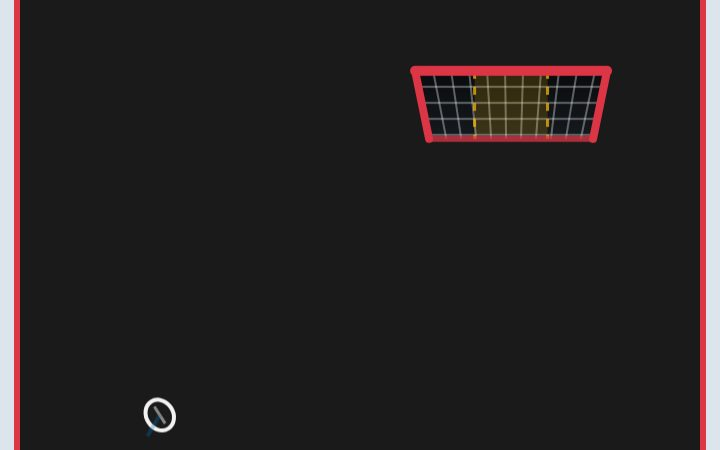
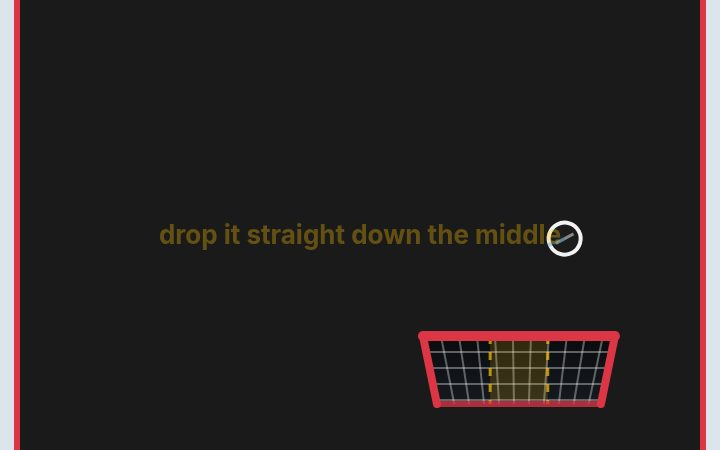
Bar Down: feel pass, solid net body, round puck, multiplier scoring
Tuning: quicker across the ice (122 base, 196 cap), more lift per tap
(-336), a narrower bar-down band (0.15), and half the starting clock
(18s), so a run has to be earned early rather than coasted.

The rebound out of the net now fires toward wherever the net is heading
next, so scoring sends you at your next chance instead of away from it.

The net is solid on its sides and back, not just its mouth: the puck can
no longer pass through the body, and only a clean drop inside the posts
counts. The puck was drawn as a rotating squashed ellipse, which read as
a spinning football; from directly above a puck is a circle, so it is
one now.

Scoring is rebuilt: a goal is one point, multiplied by a multiplier that
climbs by one per goal up to 50x. A bar down advances it by two. Decking
the puck still wipes it.

Claude-Session: https://claude.ai/code/session_0131pdkGBwKXA4s6o4j9DdbZ

diff --git a/scripts/games/bar-down.js b/scripts/games/bar-down.js
@@ -32,18 +32,18 @@
 
   /* ---- tuning ---- */
   var GRAV = 620;                   // px/s^2
-  var TAP_VY = -300;                // a tap sets rise, it does not stack
-  var VX_BASE = 104;                // horizontal speed, never decays
+  var TAP_VY = -336;                // a tap sets rise, it does not stack
+  var VX_BASE = 122;                // horizontal speed, never decays
   var VX_STEP = 4;                  // +per goal, so it tightens as you go
-  var VX_MAX = 178;
+  var VX_MAX = 196;
   var ICE_BOUNCE = 0.5;
-  var START_TIME = 35;
+  var START_TIME = 18;
   var GOAL_TIME = 4;
   var BAR_TIME = 5;
-  var GOAL_PTS = 100;
-  var BAR_PTS = 250;
-  var MULT_CAP = 8;
-  var CENTRE_FRAC = 0.19;           // this share either side of centre = bar down
+  var GOAL_PTS = 1;                 // a goal is worth one, the multiplier does the rest
+  var MULT_CAP = 50;
+  var BAR_BUMP = 2;                 // a bar down advances the multiplier faster
+  var CENTRE_FRAC = 0.15;           // this share either side of centre = bar down
   var NET_SLIDE = 300;              // px/s the net travels to its next spot
   var POP_VY = -292;                // how hard the mesh spits the puck back out
 
@@ -135,10 +135,10 @@
   function scoreGoal(net, barDown) {
     goals++;
     if (barDown) bars++;
-    var pts = (barDown ? BAR_PTS : GOAL_PTS) * multiplier;
+    // the goal is worth one; the multiplier you have built is what pays
+    var pts = GOAL_PTS * multiplier;
     score += pts;
-    // only a clean one down the middle builds the multiplier
-    if (barDown) multiplier = Math.min(multiplier + 1, MULT_CAP);
+    multiplier = Math.min(multiplier + (barDown ? BAR_BUMP : 1), MULT_CAP);
     timeLeft += barDown ? BAR_TIME : GOAL_TIME;
     vxMag = Math.min(vxMag + VX_STEP, VX_MAX);
 
@@ -149,8 +149,8 @@
       color: barDown ? C.warning : C.success,
       size: barDown ? 25 : 18
     });
-    if (barDown && multiplier > 1) {
-      floaters.push({ x: W / 2, y: 232, text: 'multiplier x' + multiplier, t: 0, life: 0.9, color: C.accentHover, size: 15 });
+    if (multiplier > 1) {
+      floaters.push({ x: W / 2, y: 232, text: 'now x' + multiplier, t: 0, life: 0.9, color: C.accentHover, size: 15 });
     }
     rings.push({ x: net.x, y: net.y, t: 0, dur: 0.6, r0: 10, r1: 64, color: barDown ? C.warning : C.success });
     flash = { t: 0, dur: 0.22, color: barDown ? C.warning : C.success };
@@ -160,11 +160,13 @@
     // the mesh spits it back out, which is what a real puck does, so the same
     // puck stays in play and there is nothing to reset
     puck.x = net.x;
-    puck.y = net.y + NET_D * 0.5;
+    puck.y = net.y - PUCK_R - 2;
     puck.vy = POP_VY;
-    puck.vx = (puck.vx >= 0 ? 1 : -1) * Math.max(Math.abs(puck.vx) * 0.85, 55);
     puck.onIce = false;
+    // pick where the net is headed first, then kick the puck that way, so the
+    // rebound sends you toward the next chance instead of away from it
     moveNet();
+    puck.vx = (net.targetX >= puck.x ? 1 : -1) * Math.max(Math.abs(puck.vx), 74);
     syncHud();
   }
 
@@ -250,6 +252,24 @@
       if (a <= half + PUCK_R) {
         offThePost(off);
       }
+    }
+
+    /* Everything but the mouth is solid, so the puck cannot pass through the
+       net. A clean drop scores above and never reaches this. */
+    var nLeft = net.x - NET_W / 2, nRight = net.x + NET_W / 2;
+    var nTop = net.y, nBot = net.y + NET_D;
+    if (puck.x + PUCK_R > nLeft && puck.x - PUCK_R < nRight &&
+        puck.y + PUCK_R > nTop && puck.y - PUCK_R < nBot) {
+      var pL = (puck.x + PUCK_R) - nLeft;
+      var pR = nRight - (puck.x - PUCK_R);
+      var pT = (puck.y + PUCK_R) - nTop;
+      var pB = nBot - (puck.y - PUCK_R);
+      var least = Math.min(pL, pR, pT, pB);
+      if (least === pL) { puck.x = nLeft - PUCK_R; puck.vx = -Math.abs(puck.vx); }
+      else if (least === pR) { puck.x = nRight + PUCK_R; puck.vx = Math.abs(puck.vx); }
+      else if (least === pT) { puck.y = nTop - PUCK_R; puck.vy = -Math.abs(puck.vy) * 0.6 - 20; }
+      else { puck.y = nBot + PUCK_R; puck.vy = Math.abs(puck.vy) * 0.6 + 20; }
+      rings.push({ x: puck.x, y: puck.y, t: 0, dur: 0.22, r0: 5, r1: 16, color: C.danger });
     }
 
     // ice
@@ -405,7 +425,7 @@
     ctx.rotate(puck.spin);
     ctx.fillStyle = '#1b1b1b';
     ctx.beginPath();
-    ctx.ellipse(0, 0, PUCK_R, PUCK_R * 0.84, 0, 0, Math.PI * 2);
+    ctx.arc(0, 0, PUCK_R, 0, Math.PI * 2);
     ctx.fill();
     ctx.strokeStyle = '#f2f2f2';
     ctx.lineWidth = 2;

diff --git a/_pages/arcade/bar-down.html b/_pages/arcade/bar-down.html
@@ -12,7 +12,7 @@ arcade: true
   <a class="arcade-back" href="/arcade/">&larr; Arcade</a>
   <h1 class="arcade-title">Bar Down <span class="arcade-card__chip">Prototype</span></h1>
   <p class="proto-notice"><strong>This one is a prototype.</strong> Rough edges, missing polish, and half-formed ideas are all expected. If you play it, tell us what worked and what did not: <a href="https://scout-elite.supahub.com/en" target="_blank" rel="noopener">share feedback</a>.</p>
-  <p class="game-help">You are looking straight down at a net lying mouth-up. Tap to keep the puck in the air; it never stops moving sideways and it ricochets off the boards, so line it up and let it drop in. Straight down the middle is a bar down: double points, and it is the only thing that raises your multiplier. The pipe is solid, so clipping a post pings it back out. Score and the mesh spits the same puck straight back to you while the net slides somewhere new, so play never stops. The clock is the only thing that can end you, and every goal buys more of it.</p>
+  <p class="game-help">You are looking straight down at a net lying mouth-up. Tap to keep the puck in the air; it never stops moving sideways and it ricochets off the boards, so line it up and let it drop in. Every goal is worth a single point, and your multiplier is what makes it count: it climbs by one with every goal, up to 50x. Straight down the middle is a bar down, which advances it twice as fast. The pipe is solid, so clipping a post pings it back out. Score and the mesh spits the same puck straight back to you while the net slides somewhere new, so play never stops. The clock is the only thing that can end you, and every goal buys more of it.</p>
 
   <div class="game-hud">
     <span>Score <strong id="score">0</strong></span>
@@ -24,12 +24,12 @@ arcade: true
     <canvas id="game"></canvas>
     <div class="game-overlay" id="overlay">
       <h2 id="overlay-title">Bar Down</h2>
-      <p id="overlay-msg">Tap to lift the puck. Drop it in the net before the clock runs out, and aim for the middle: that is a bar down, and it builds your multiplier.</p>
+      <p id="overlay-msg">Tap to lift the puck. Drop it in the net before the clock runs out, and aim for the middle: that is a bar down, and it builds your multiplier twice as fast.</p>
       <button class="game-btn" id="overlay-btn" type="button">Drop the puck</button>
     </div>
   </div>
 
-  <p class="game-help" style="margin-top: var(--space-3);">Phone: tap anywhere on the ice. Keyboard: space or the up arrow. Dead centre scores double and builds the multiplier. Hit a post and it comes back out.</p>
+  <p class="game-help" style="margin-top: var(--space-3);">Phone: tap anywhere on the ice. Keyboard: space or the up arrow. Dead centre is a bar down and builds the multiplier twice as fast. Hit a post and it comes back out.</p>
 </div>
 
 <script src="/scripts/games/arcade.js"></script>

diff --git a/.github/agents.md b/.github/agents.md
@@ -230,7 +230,7 @@ Ice-slide resurfacing puzzle, 25 levels (optimal par 4 up to 21). **Every level 
 ### Prototypes
 Keep It In (blue-line pinch timing), Shootout (goalie learns your shot tendencies across visits, persisted), Coach's Challenge (frame-scrub offside calls), The Telestrator (draw a route, players run it literally), Bar Down (one-touch tap-to-loft against a clock). Play events only, except Bar Down, which fires `arcade_complete` with `score`, `goals`, `streak`.
 
-**Bar Down** is the Flappy Dunk formula in hockey dress (see the backlog entry it came from). The camera looks straight down on **one** net lying mouth-up, roaming in both axes, so the puck drops in like a ball through a hoop; dead centre is a bar down, which pays double and is the only thing that raises the multiplier, while decking the puck clears it. The red pipe is solid, so clipping a post pings the puck back out instead of counting. **One puck lasts the whole run:** scoring pops it back out off the mesh (what a real puck does) rather than respawning, so play never stops to reset, and the net slides away to its next spot while the puck is still airborne. Getting here took a wrong turn worth recording: the first build was a side view with a net standing on the ice, which Scott rejected on sight because it did not read as a hockey goal. Two lessons from that. **A hockey net is red pipe with white mesh** and the first version had it backwards (white pipe, dark mesh), which alone destroys recognition. And an elevated, mouth-up target is what makes the genre work, because gravity does the aiming; a net standing on the ice forced an invented reason to drop pucks in from above and satisfied neither the sport nor the game. Tune it by sweeping a metronome bot across tap cadences and checking the score spread, but do not tune *to* the bot: a metronome cannot play this at fast cadences and a human can, because a human watches the puck.
+**Bar Down** is the Flappy Dunk formula in hockey dress (see the backlog entry it came from). The camera looks straight down on **one** net lying mouth-up, roaming in both axes, so the puck drops in like a ball through a hoop; a goal is worth a single point and the multiplier is what pays: it climbs by one per goal to a cap of 50x, and dead centre is a bar down, which advances it twice as fast. Decking the puck clears the multiplier, which is the whole risk. The red pipe is solid, so clipping a post pings the puck back out instead of counting. **One puck lasts the whole run:** scoring pops it back out off the mesh (what a real puck does) rather than respawning, so play never stops to reset, and the net slides away to its next spot while the puck is still airborne. Getting here took a wrong turn worth recording: the first build was a side view with a net standing on the ice, which Scott rejected on sight because it did not read as a hockey goal. Two lessons from that. **A hockey net is red pipe with white mesh** and the first version had it backwards (white pipe, dark mesh), which alone destroys recognition. And an elevated, mouth-up target is what makes the genre work, because gravity does the aiming; a net standing on the ice forced an invented reason to drop pucks in from above and satisfied neither the sport nor the game. Tune it by sweeping a metronome bot across tap cadences and checking the score spread, but do not tune *to* the bot: a metronome cannot play this at fast cadences and a human can, because a human watches the puck.
 
 ### Games backlog
 - ~~**Bar Down (one-touch tap-to-loft, timed):**~~ **Built 2026-08-13**, see the Prototypes section. the Flappy Dunk / Ziosk-tabletop-basketball formula in hockey dress, requested 2026-08-13 (Scott's kids play the basketball one at Texas Roadhouse). Tap to loft the puck upward, keep it airborne, and snipe it into a net; the run is on a countdown that scoring extends, so a hot streak plays forever and a cold one ends fast. Streak multipliers reward clean snipes, with the top tier being an actual bar-down (off the crossbar and in). The basketball original wraps the ball around the screen edges; hockey has a better answer, since the puck should ricochet off the boards, which is both more authentic and the same "it comes back at you" feel. Loud, physical, zero-instruction, and the only arcade game we would have with a real risk/reward score chase.
